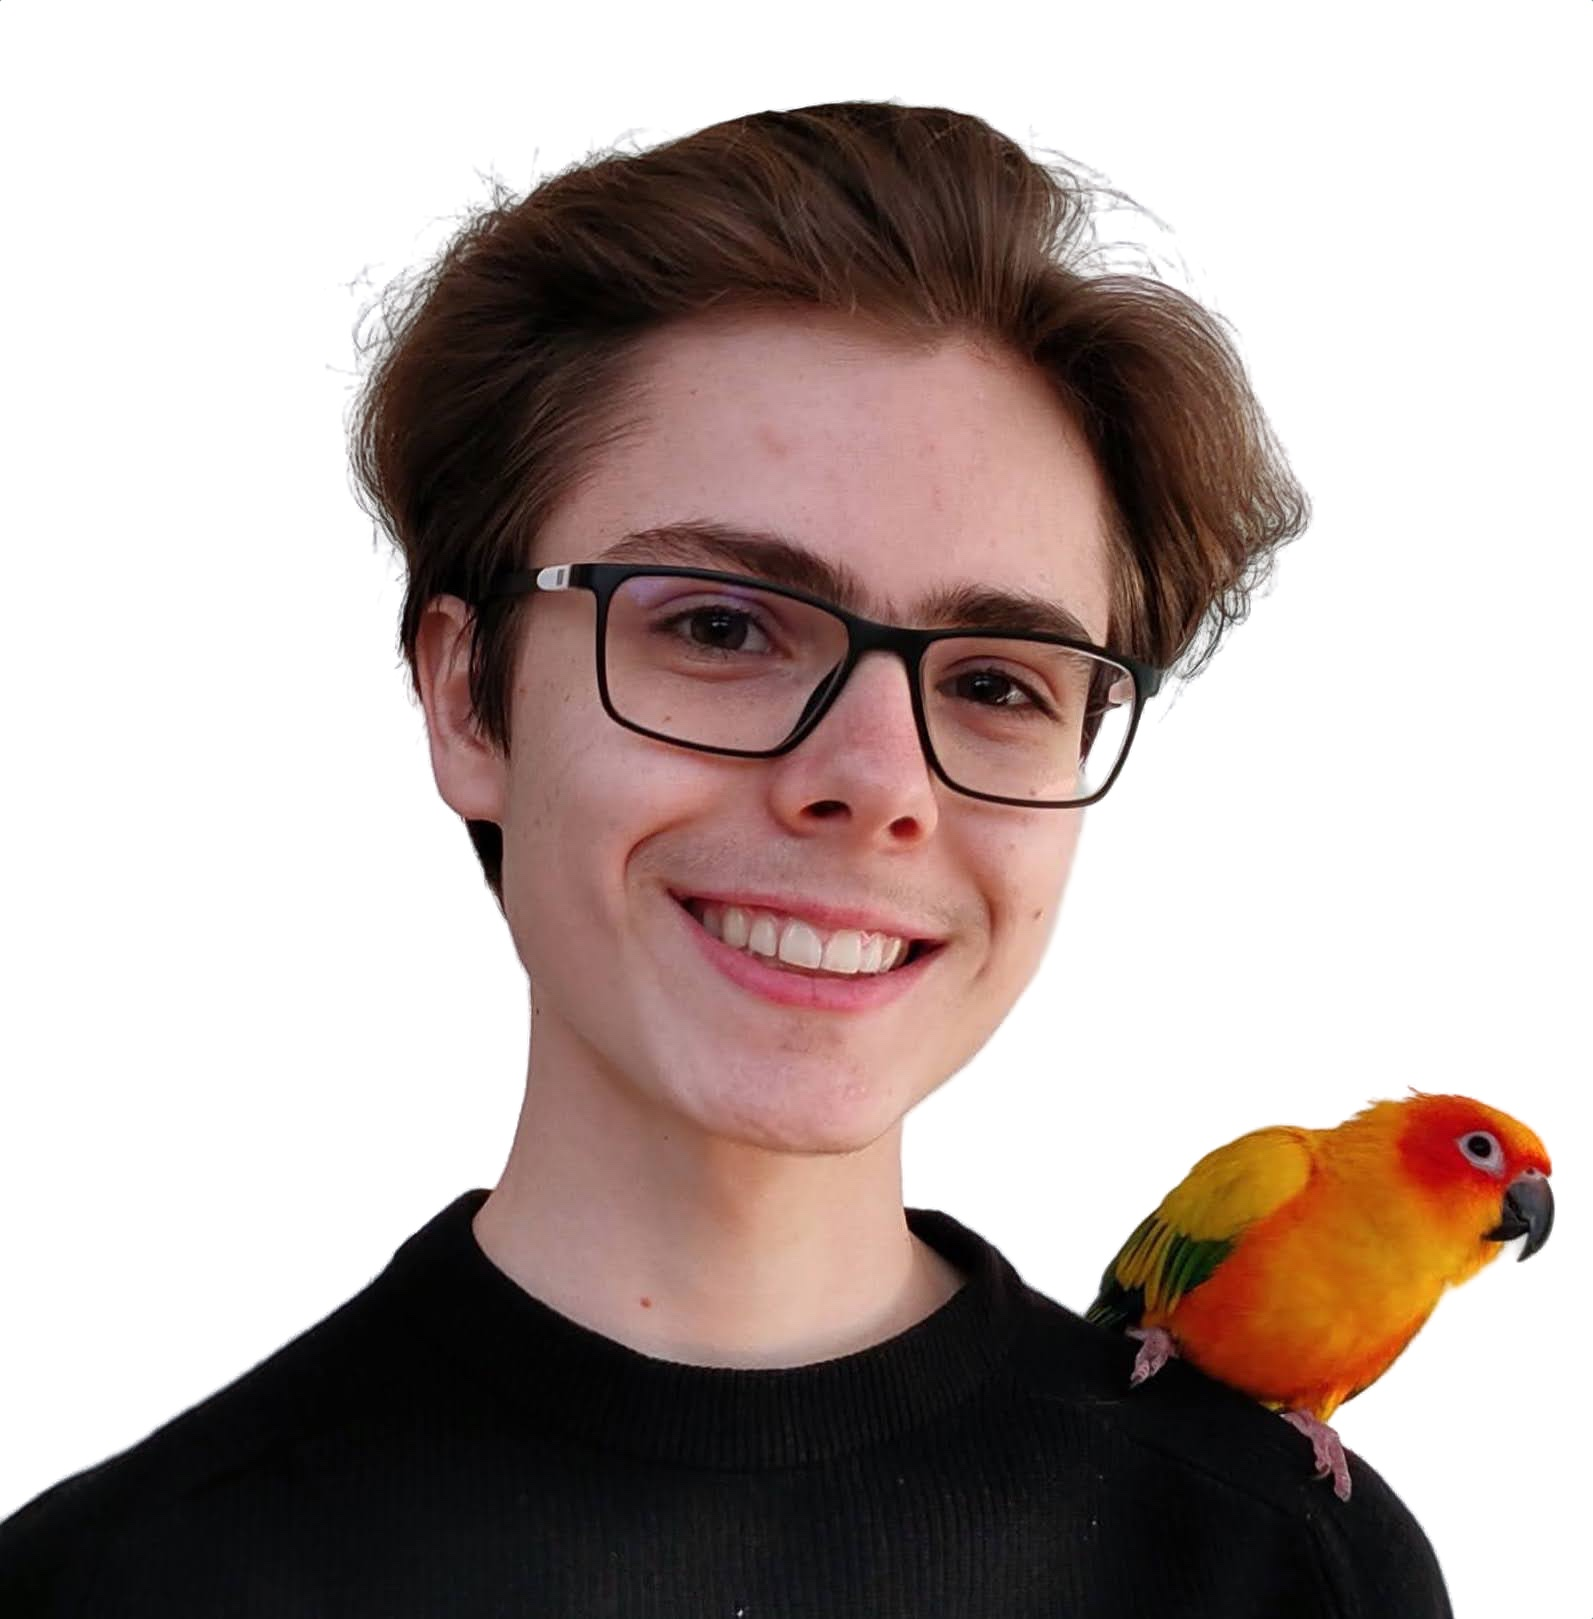
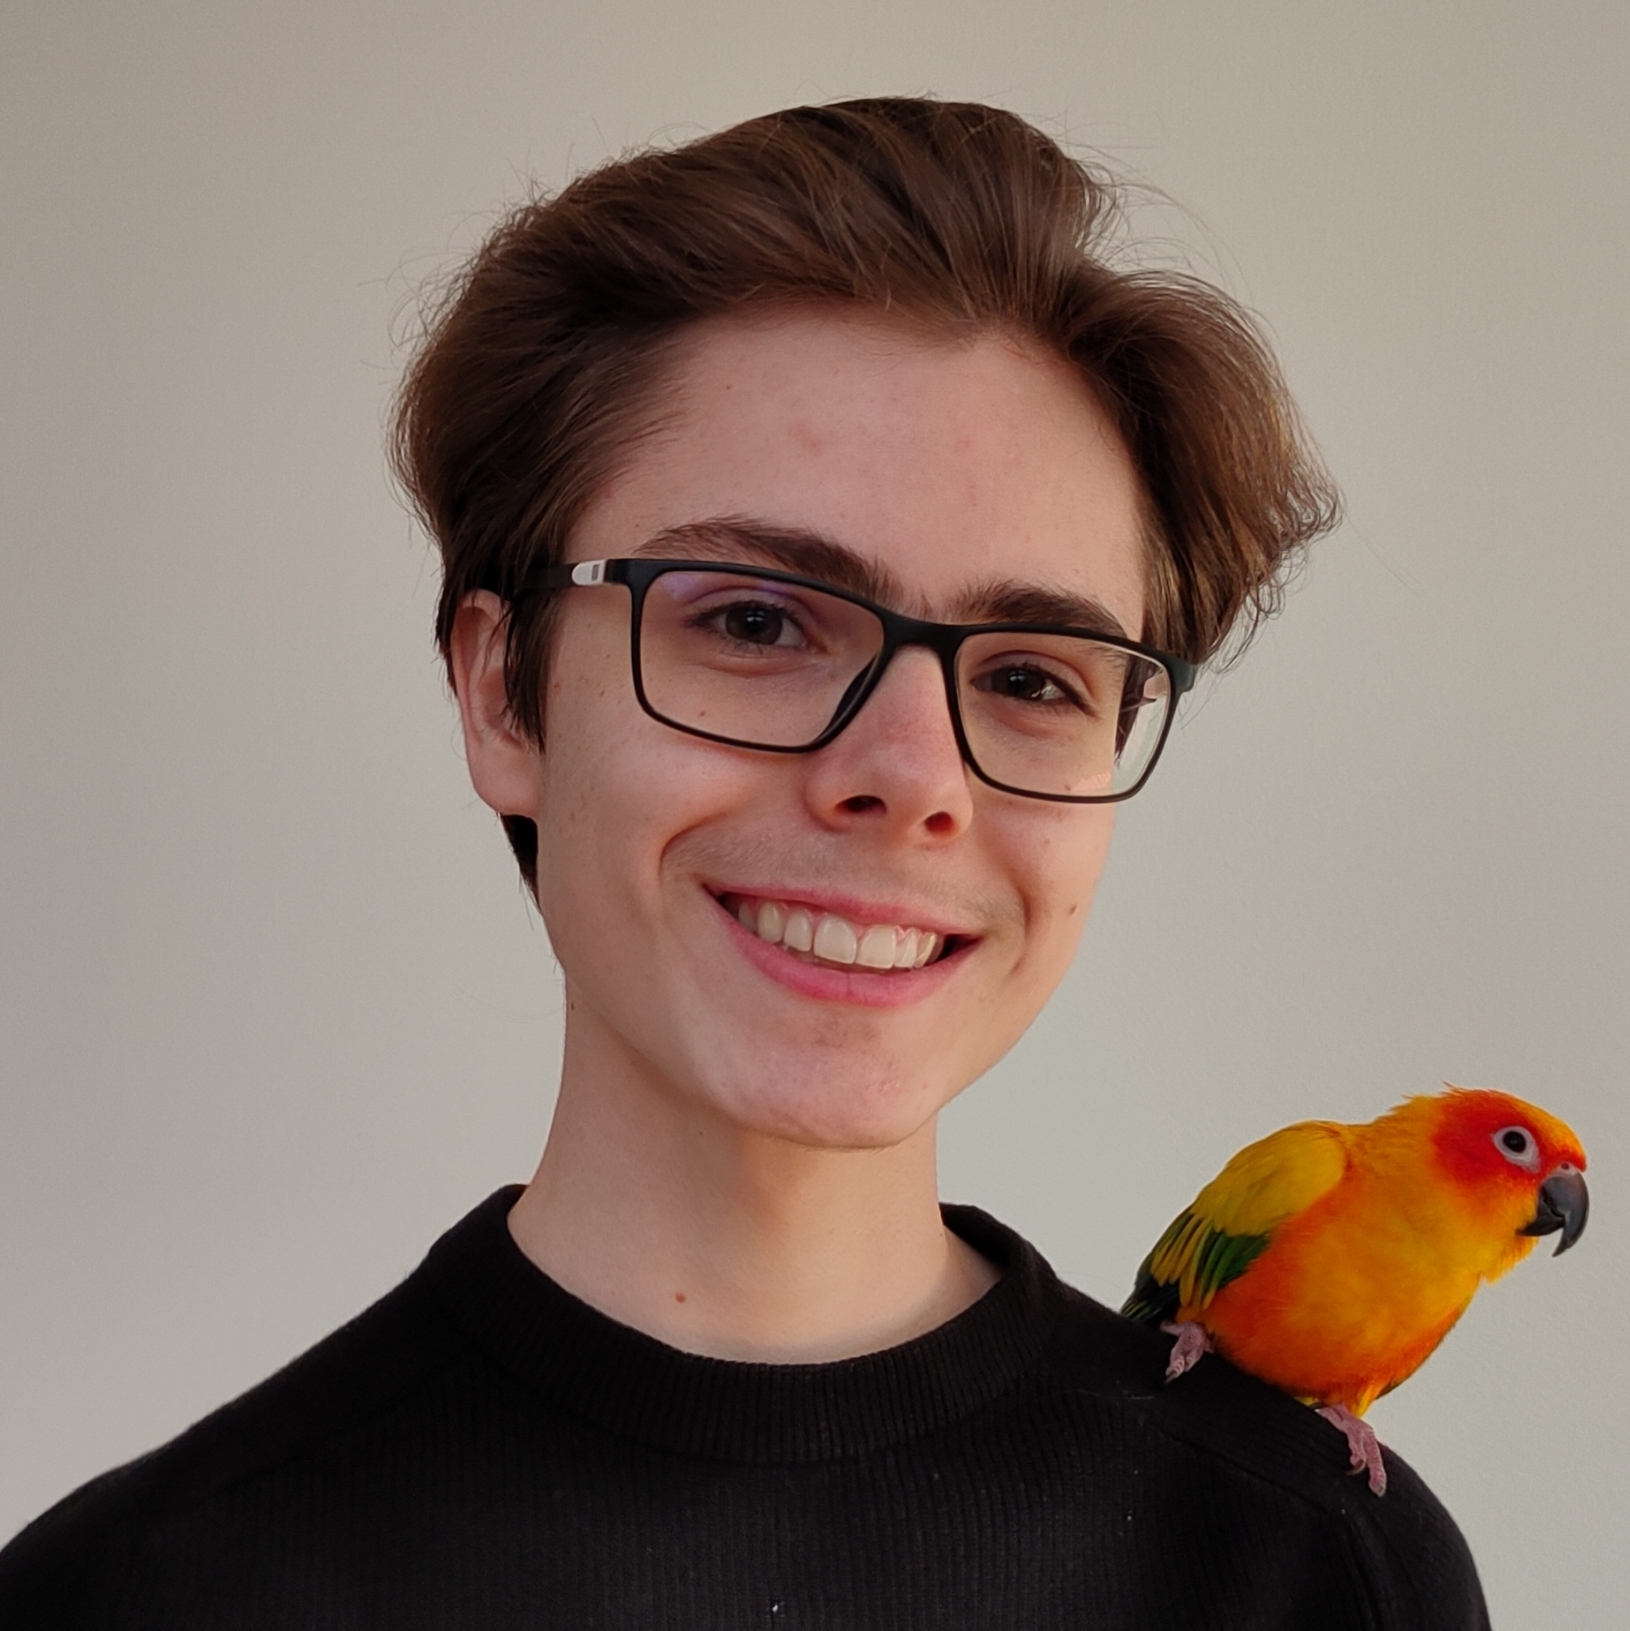
new

diff --git a/post/getting-started/index.html b/post/getting-started/index.html
@@ -1035,7 +1035,7 @@
   <div class="media author-card content-widget-hr">
     
       
-      <a href="https://zzigak.github.io"><img class="avatar mr-3 avatar-circle" src="/authors/admin/Avatar_huc3a3a621d8f6765cb354fc87febbe978_210853_270x270_fill_q75_lanczos_center.jpg" alt="Žiga Kovačič"></a>
+      <a href="https://zzigak.github.io"><img class="avatar mr-3 avatar-circle" src="/authors/admin/Avatar_hu9e243dec7f004f09a3715a2ba63bc5f4_1323222_270x270_fill_q75_lanczos_center.jpg" alt="Žiga Kovačič"></a>
     
 
     <div class="media-body">

diff --git a/publication/example/index.html b/publication/example/index.html
@@ -1053,7 +1053,7 @@
   <div class="media author-card content-widget-hr">
     
       
-      <a href="https://zzigak.github.io"><img class="avatar mr-3 avatar-circle" src="/authors/admin/Avatar_huc3a3a621d8f6765cb354fc87febbe978_210853_270x270_fill_q75_lanczos_center.jpg" alt="Žiga Kovačič"></a>
+      <a href="https://zzigak.github.io"><img class="avatar mr-3 avatar-circle" src="/authors/admin/Avatar_hu9e243dec7f004f09a3715a2ba63bc5f4_1323222_270x270_fill_q75_lanczos_center.jpg" alt="Žiga Kovačič"></a>
     
 
     <div class="media-body">

diff --git a/talk/example-talk/index.html b/talk/example-talk/index.html
@@ -1053,7 +1053,7 @@
   <div class="media author-card content-widget-hr">
     
       
-      <a href="https://zzigak.github.io"><img class="avatar mr-3 avatar-circle" src="/authors/admin/Avatar_huc3a3a621d8f6765cb354fc87febbe978_210853_270x270_fill_q75_lanczos_center.jpg" alt="Žiga Kovačič"></a>
+      <a href="https://zzigak.github.io"><img class="avatar mr-3 avatar-circle" src="/authors/admin/Avatar_hu9e243dec7f004f09a3715a2ba63bc5f4_1323222_270x270_fill_q75_lanczos_center.jpg" alt="Žiga Kovačič"></a>
     
 
     <div class="media-body">

diff --git a/project/example/index.html b/project/example/index.html
@@ -993,7 +993,7 @@
   <div class="media author-card content-widget-hr">
     
       
-      <a href="https://zzigak.github.io"><img class="avatar mr-3 avatar-circle" src="/authors/admin/Avatar_huc3a3a621d8f6765cb354fc87febbe978_210853_270x270_fill_q75_lanczos_center.jpg" alt="Žiga Kovačič"></a>
+      <a href="https://zzigak.github.io"><img class="avatar mr-3 avatar-circle" src="/authors/admin/Avatar_hu9e243dec7f004f09a3715a2ba63bc5f4_1323222_270x270_fill_q75_lanczos_center.jpg" alt="Žiga Kovačič"></a>
     
 
     <div class="media-body">

diff --git a/index.html b/index.html
@@ -828,7 +828,7 @@
       
       <img class="avatar avatar-circle"
            width="270" height="270"
-           src="/authors/admin/Avatar_huc3a3a621d8f6765cb354fc87febbe978_210853_270x270_fill_q75_lanczos_center.jpg" alt="Žiga Kovačič">
+           src="/authors/admin/Avatar_hu9e243dec7f004f09a3715a2ba63bc5f4_1323222_270x270_fill_q75_lanczos_center.jpg" alt="Žiga Kovačič">
       
 
       <div class="portrait-title">
